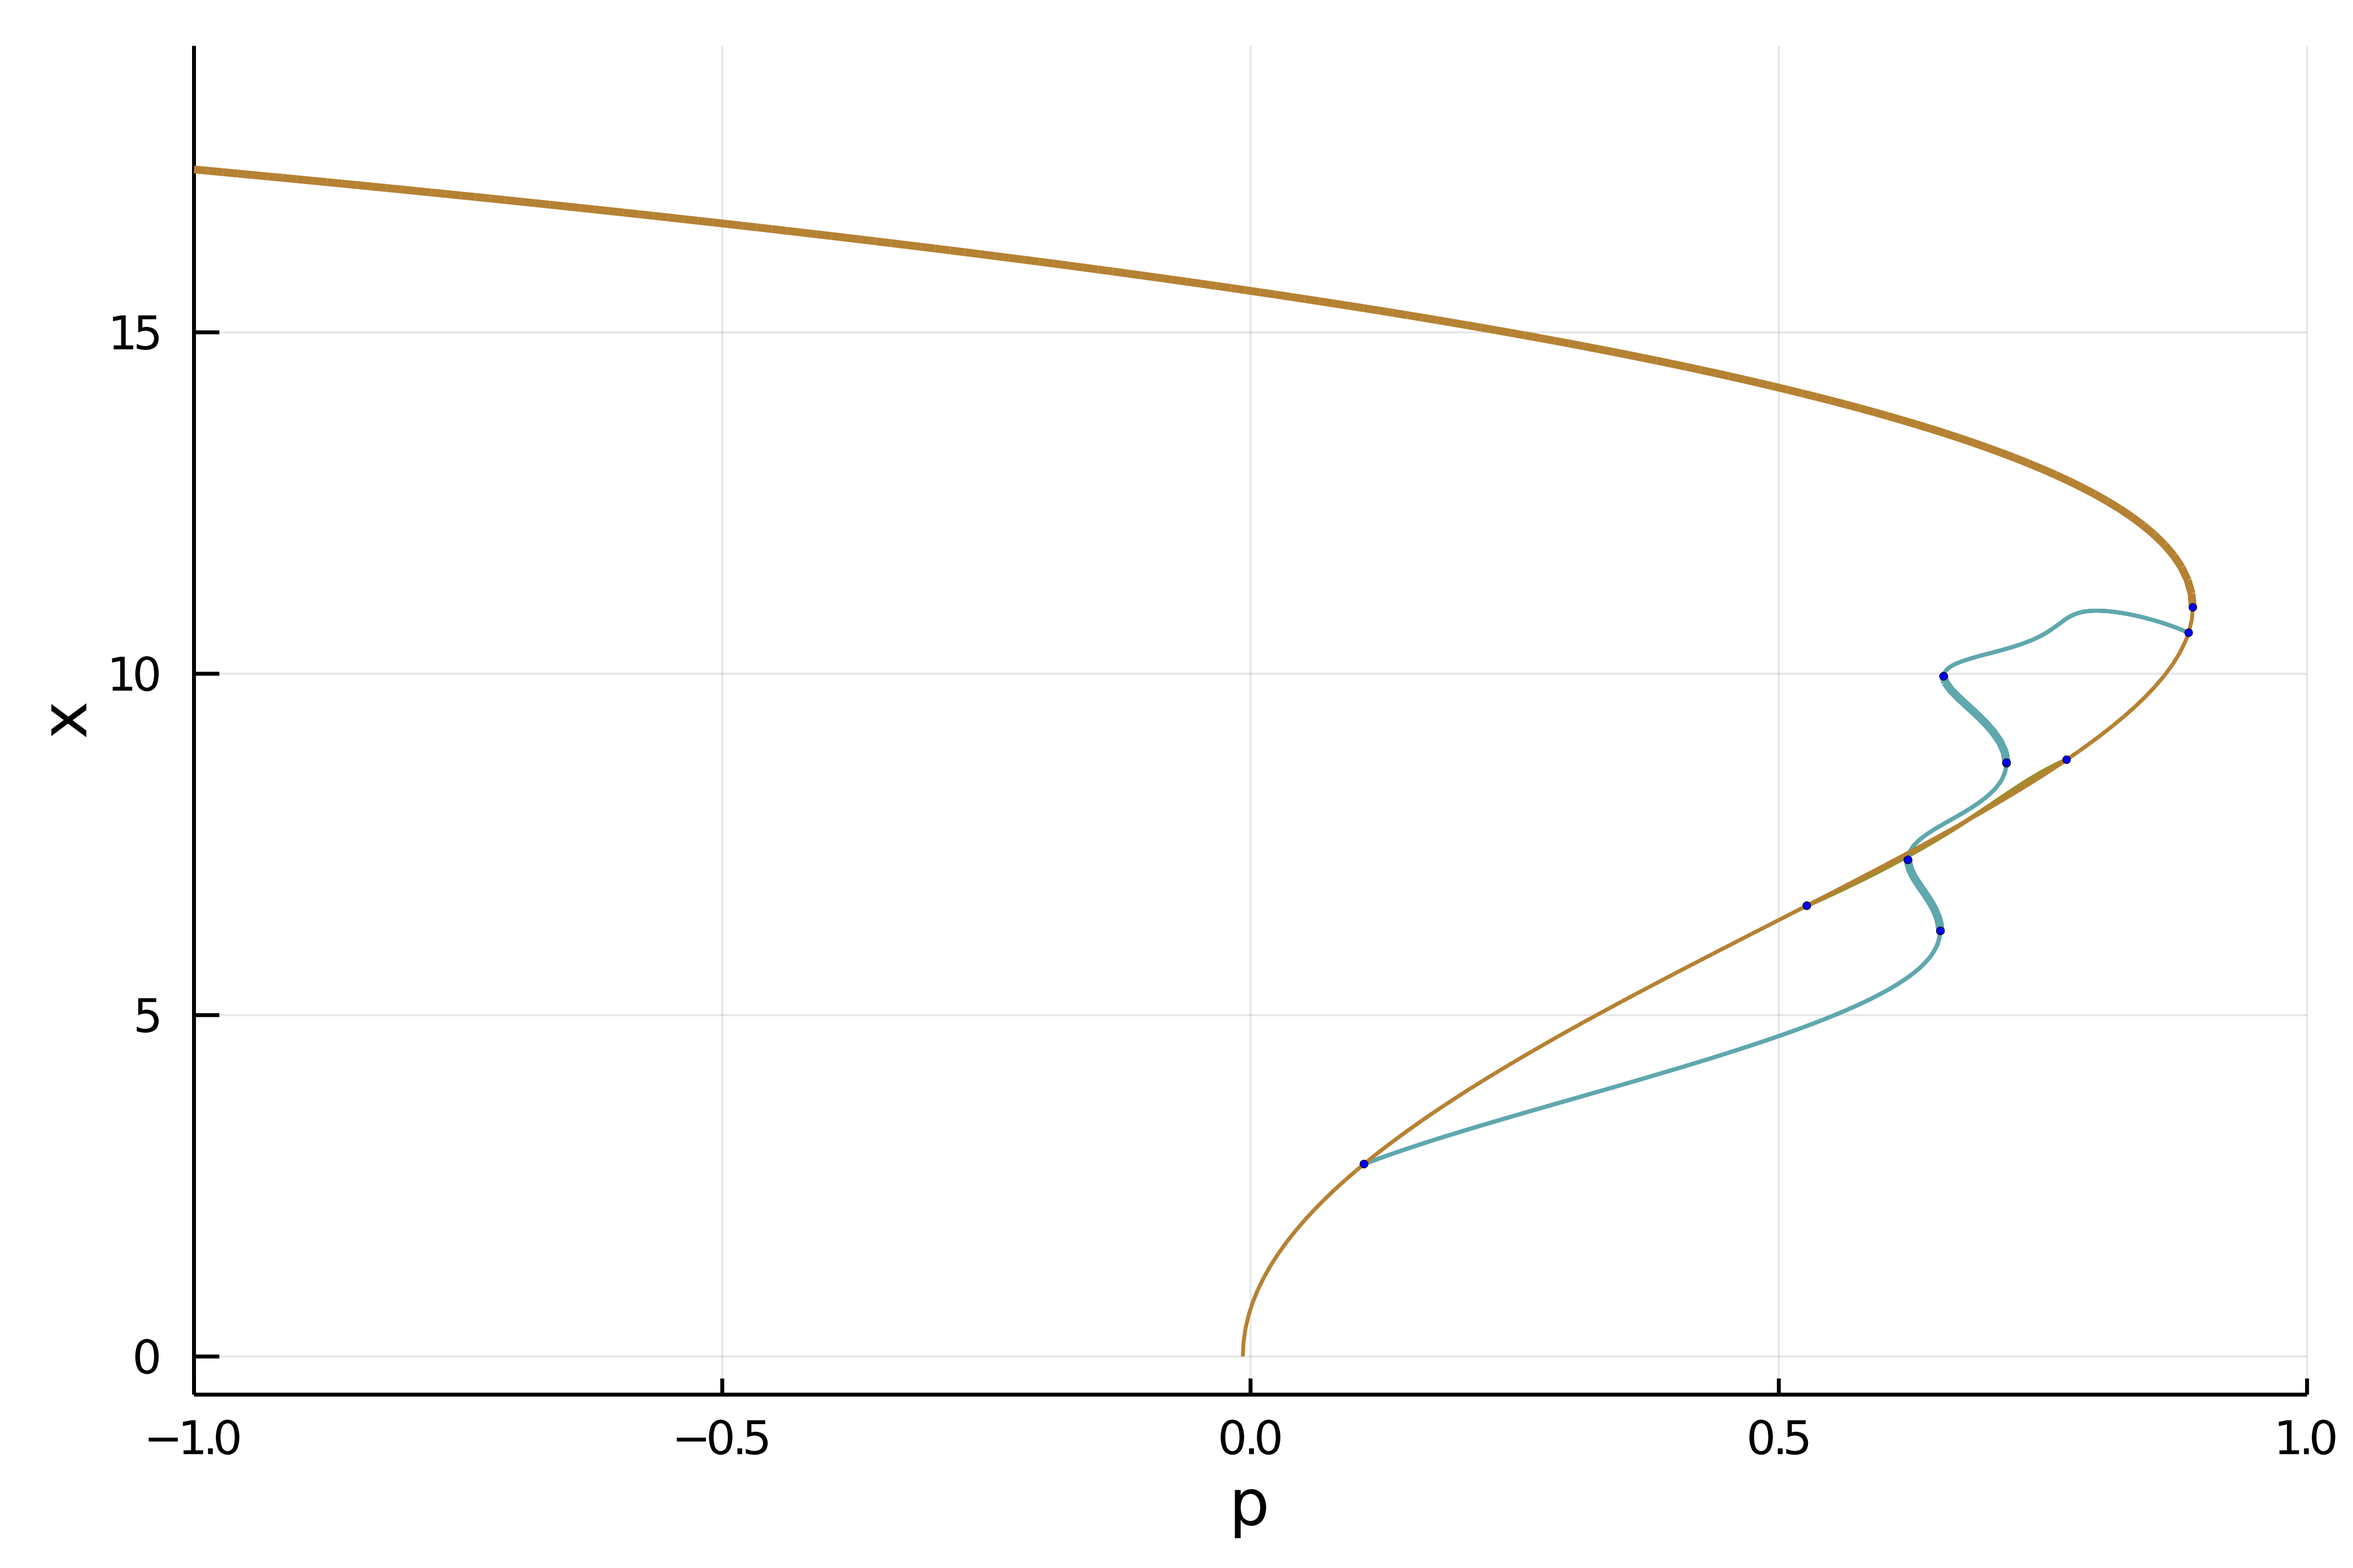
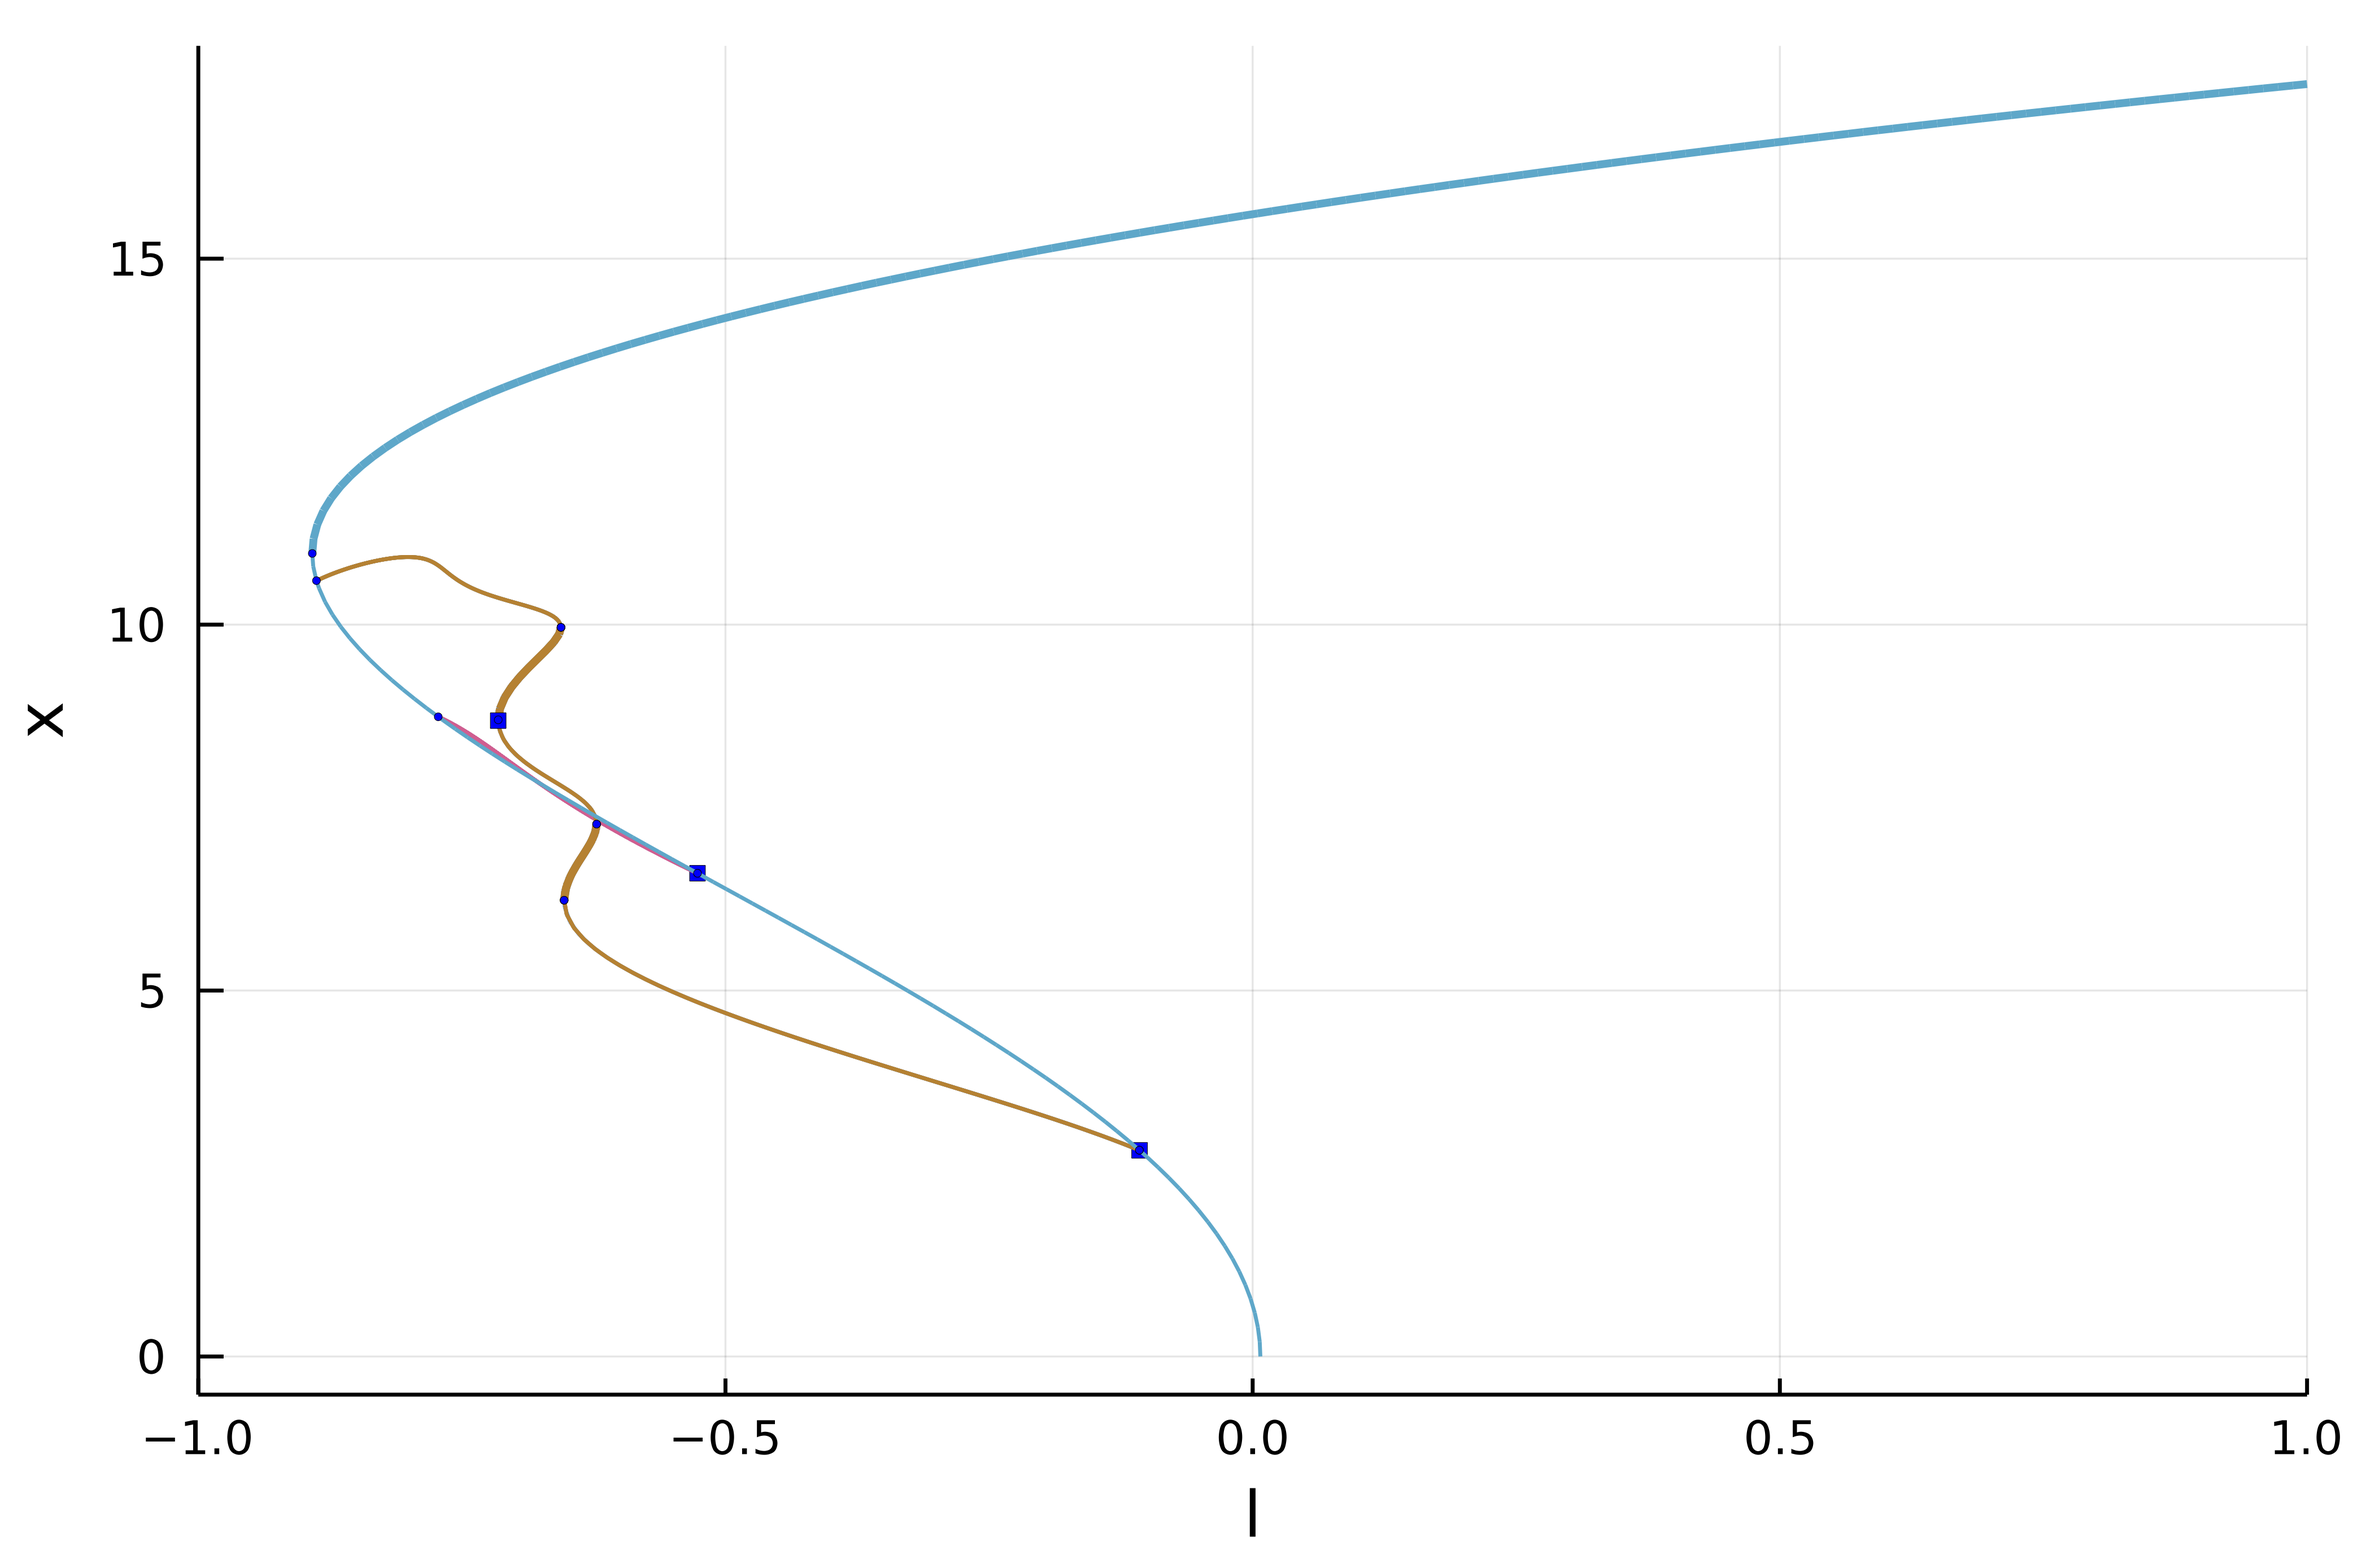
improve tutorial on Swift-Hohenberg 1d

diff --git a/docs/src/Swift-Hohenberg1d.md b/docs/src/Swift-Hohenberg1d.md
@@ -7,7 +7,7 @@ Depth = 3
 
 In this tutorial, we will see how to compute automatically the bifurcation diagram of the 1d Swift-Hohenberg equation
 
-$$-(I+\Delta)^2 u+l\cdot u +\nu u^2-u^3 = 0\tag{E}$$
+$$-(I+\Delta)^2 u+l\cdot u +\nu u^3-u^5 = 0\tag{E}$$
 
 with Dirichlet boundary conditions. We use a Sparse Matrix to express the operator $L_1=(I+\Delta)^2$. We start by loading the packages:
 
@@ -37,32 +37,32 @@ Lsh = -(I + Dxx)^2
 
 # functional of the problem
 function R_SH(u, par)
-	@unpack p, b, L1 = par
+	@unpack l, ν, L1 = par
 	out = similar(u)
-	out .= L1 * u .- p .* u .+ b .* u.^3 - u.^5
+	out .= L1 * u .+ l .* u .+ ν .* u.^3 - u.^5
 end
 
 # Jacobian of the function
-Jac_sp = (u, par) -> par.L1 + spdiagm(0 => -par.p .+ 3*par.b .* u.^2 .- 5 .* u.^4)
+Jac_sp(u, par) = par.L1 + spdiagm(0 => par.l .+ 3 .* par.ν .* u.^2 .- 5 .* u.^4)
 
 # second derivative
-d2R(u,p,dx1,dx2) = @. p.b * 6u*dx1*dx2 - 5*4u^3*dx1*dx2
+d2R(u,p,dx1,dx2) = @. p.ν * 6u*dx1*dx2 - 5*4u^3*dx1*dx2
 
 # third derivative
-d3R(u,p,dx1,dx2,dx3) = @. p.b * 6dx3*dx1*dx2 - 5*4*3u^2*dx1*dx2*dx3
+d3R(u,p,dx1,dx2,dx3) = @. p.ν * 6dx3*dx1*dx2 - 5*4*3u^2*dx1*dx2*dx3
 
 # jet associated with the functional
 jet = (R_SH, Jac_sp, d2R, d3R)
 
 # parameters associated with the equation
-parSH = (p = 0.7, b = 2., L1 = Lsh)
+parSH = (l = -0.7, ν = 2., L1 = Lsh)
 ```
 
 We then choose the parameters for [`continuation`](@ref) with precise detection of bifurcation points by bisection:
 
 ```julia
 optnew = NewtonPar(verbose = true, tol = 1e-12)
-opts = ContinuationPar(dsmin = 0.0001, dsmax = 0.01, ds = -0.01, pMin = -2.1,
+opts = ContinuationPar(dsmin = 0.0001, dsmax = 0.01, ds = 0.01, pMax = 1.,
 	newtonOptions = setproperties(optnew; maxIter = 30, tol = 1e-8), 
 	maxSteps = 300, plotEveryStep = 40, 
 	detectBifurcation = 3, nInversion = 4, tolBisectionEigenvalue = 1e-17, dsminBisection = 1e-7)
@@ -119,7 +119,7 @@ We are now in position to compute the bifurcation diagram
 sol0 = zeros(Nx)
 
 diagram = @time bifurcationdiagram(jet..., 
-	sol0, (@set parSH.p = 1.), (@lens _.p), 
+	sol0, (@set parSH.l = -1.), (@lens _.l), 
 	# here we specify a maximum branching level of 4
 	4, optrec; args...)
 ```  
@@ -142,23 +142,23 @@ The bifurcation diagram `diagram` is stored as tree:
 
 ```julia
 julia> diagram
-Bifurcation diagram. Root branch (level 1) has 6 children and is such that:
-Branch number of points: 224
+Bifurcation diagram. Root branch (level 1) has 5 children and is such that:
+Branch number of points: 146
 Branch of Equilibrium
-Bifurcation points:
+Parameters l from -1.0 to 1.0
+Special points:
  (ind_ev = index of the bifurcating eigenvalue e.g. `br.eig[idx].eigenvals[ind_ev]`)
-- #  1,    bp at p ≈ -0.00729225 ∈ (-0.00728880, -0.00729225), |δp|=3e-06, [converged], δ = ( 1,  0), step =  72, eigenelements in eig[ 73], ind_ev =   1
-- #  2,    bp at p ≈ -0.15169672 ∈ (-0.15158623, -0.15169672), |δp|=1e-04, [converged], δ = ( 1,  0), step =  83, eigenelements in eig[ 84], ind_ev =   2
-- #  3,    bp at p ≈ -0.48386427 ∈ (-0.48385737, -0.48386427), |δp|=7e-06, [converged], δ = ( 1,  0), step = 107, eigenelements in eig[108], ind_ev =   3
-- #  4,    bp at p ≈ -0.53115204 ∈ (-0.53071010, -0.53115204), |δp|=4e-04, [converged], δ = ( 1,  0), step = 111, eigenelements in eig[112], ind_ev =   4
-- #  5,    bp at p ≈ -0.86889220 ∈ (-0.86887839, -0.86889220), |δp|=1e-05, [converged], δ = ( 1,  0), step = 135, eigenelements in eig[136], ind_ev =   5
-- #  6,    bp at p ≈ -2.07693994 ∈ (-2.07671897, -2.07693994), |δp|=2e-04, [converged], δ = ( 1,  0), step = 221, eigenelements in eig[222], ind_ev =   6
+- #  1,    bp at l ≈ +0.00729225 ∈ (+0.00728880, +0.00729225), |δp|=3e-06, [converged], δ = ( 1,  0), step =  72, eigenelements in eig[ 73], ind_ev =   1
+- #  2,    bp at l ≈ +0.15169672 ∈ (+0.15158623, +0.15169672), |δp|=1e-04, [converged], δ = ( 1,  0), step =  83, eigenelements in eig[ 84], ind_ev =   2
+- #  3,    bp at l ≈ +0.48386427 ∈ (+0.48385737, +0.48386427), |δp|=7e-06, [converged], δ = ( 1,  0), step = 107, eigenelements in eig[108], ind_ev =   3
+- #  4,    bp at l ≈ +0.53115204 ∈ (+0.53071010, +0.53115204), |δp|=4e-04, [converged], δ = ( 1,  0), step = 111, eigenelements in eig[112], ind_ev =   4
+- #  5,    bp at l ≈ +0.86889220 ∈ (+0.86887839, +0.86889220), |δp|=1e-05, [converged], δ = ( 1,  0), step = 135, eigenelements in eig[136], ind_ev =   5
 ```
 
 We can access the different branches with `BK.getBranch(diagram, (1,))`. Alternatively, you can plot a specific branch:
 
 ```julia
-plot(diagram; code = (1,), plotfold = false,  markersize = 2, putbifptlegend = false, xlims=(-1,1))
+	plot(diagram; code = (1,), plotfold = false,  markersize = 2, putbifptlegend = false, xlims=(-1,1))
 ```
 
 ![](BDSH1d-1.png)

diff --git a/docs/src/tutorialsSH3d.md b/docs/src/tutorialsSH3d.md
@@ -72,7 +72,7 @@ contour3dMakie(ax, x::AbstractVector; k...) = contour3dMakie(ax, reshape(x,Nx,Ny
 contour3dMakie!(ax, x; k...) = (AbstractPlotting.contour!(ax, x;  k...))
 contour3dMakie!(ax, x::AbstractVector; k...) = contour3dMakie!(ax, reshape(x,Nx,Ny,Nz); k...)
 ```
-## Setting up the problem and linear solver
+## Setting up the problem
 
 We provide the parameters defining the PDE:
 
@@ -96,6 +96,23 @@ sol0 = [(cos(x) .* cos(y )) for x in X, y in Y, z in Z]
 L1 = (I + Δ)^2
 par = (l = 0.1, ν = 1.2, L1 = L1)
 ```
+
+## Choice of linear solver
+
+Let us run a quick benchmark to evaluate the direct linear solvers:
+
+```julia
+julia> @time cholesky(L1) \ sol_hexa;
+  0.152849 seconds (54 allocations: 87.273 MiB)
+
+julia> @time lu(L1) \ sol_hexa;
+  0.556157 seconds (87 allocations: 226.210 MiB, 0.49% compilation time)
+
+julia> @time qr(L1) \ sol_hexa;
+  1.609175 seconds (8.96 k allocations: 989.285 MiB, 2.67% gc time, 0.67% compilation time)
+```
+
+Hence, `cholesky` is the big winner but it requires a positive matrix so let's see how to do that.
 
 As said in the introduction, the LU linear solver does not scale well with dimension $N$. Hence, we do something else. We note that the matrix $L_1$ is hermitian positive and use it as a preconditioner. Thus, we pre-factorize it using a Cholesky decomposition:
 

diff --git a/docs/src/tutorialCO.md b/docs/src/tutorialCO.md
@@ -66,7 +66,7 @@ And you should get:
 
 ## Continuation of Fold points
 
-We follow the Fold points in the parameter plane $(q_2, k)$ as follows. We tell the solver to consider `br.bifpint[2]` and continue it. 
+We follow the Fold points in the parameter plane $(q_2, k)$. We tell the solver to consider `br.specialpoint[2]` and continue it. 
 
 ```julia
 sn_codim2, = continuation(jet[1:2]..., br, 2, (@lens _.k),
